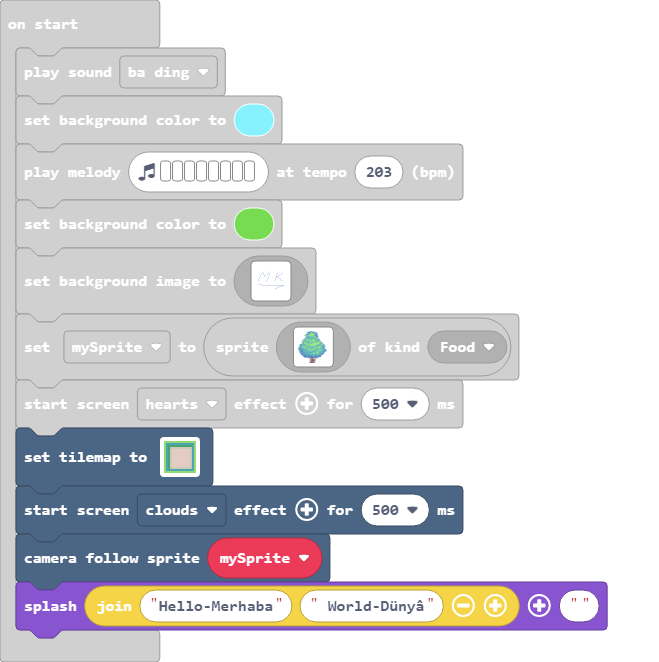
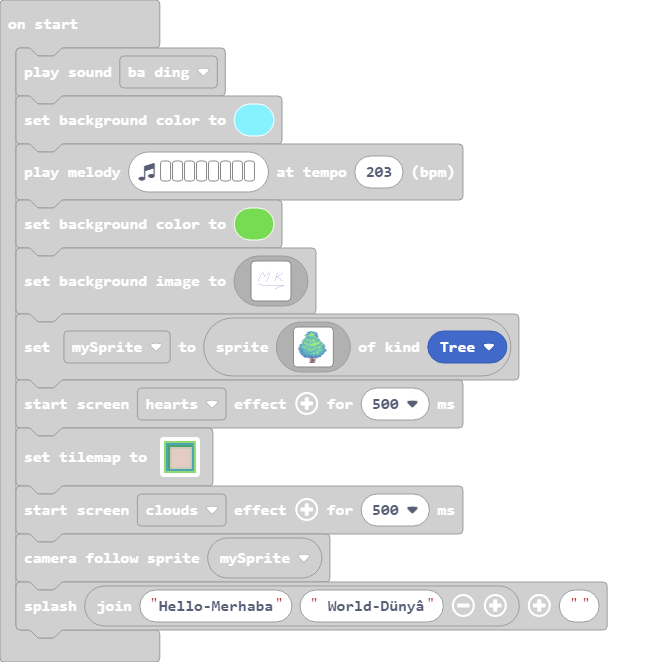
mini

Changed region(s): [[0.0, 0.6344, 0.9408, 0.9668], [0.6373, 0.4834, 0.7891, 0.574]]

diff --git a/main.ts b/main.ts
@@ -1,3 +1,6 @@
+namespace SpriteKind {
+    export const Tree = SpriteKind.create()
+}
 music.baDing.play()
 scene.setBackgroundColor(9)
 music.playMelody("C5 A D C A B G E ", 203)
@@ -166,7 +169,7 @@ let mySprite = sprites.create(img`
     ...............feefce...............
     ...............fceeec...............
     ...............ffceec...............
-    `, SpriteKind.Food)
+    `, SpriteKind.Tree)
 effects.hearts.startScreenEffect(500)
[1 lines of base64/hex data omitted]
     . . . . . . . . . . . . . . . . 
